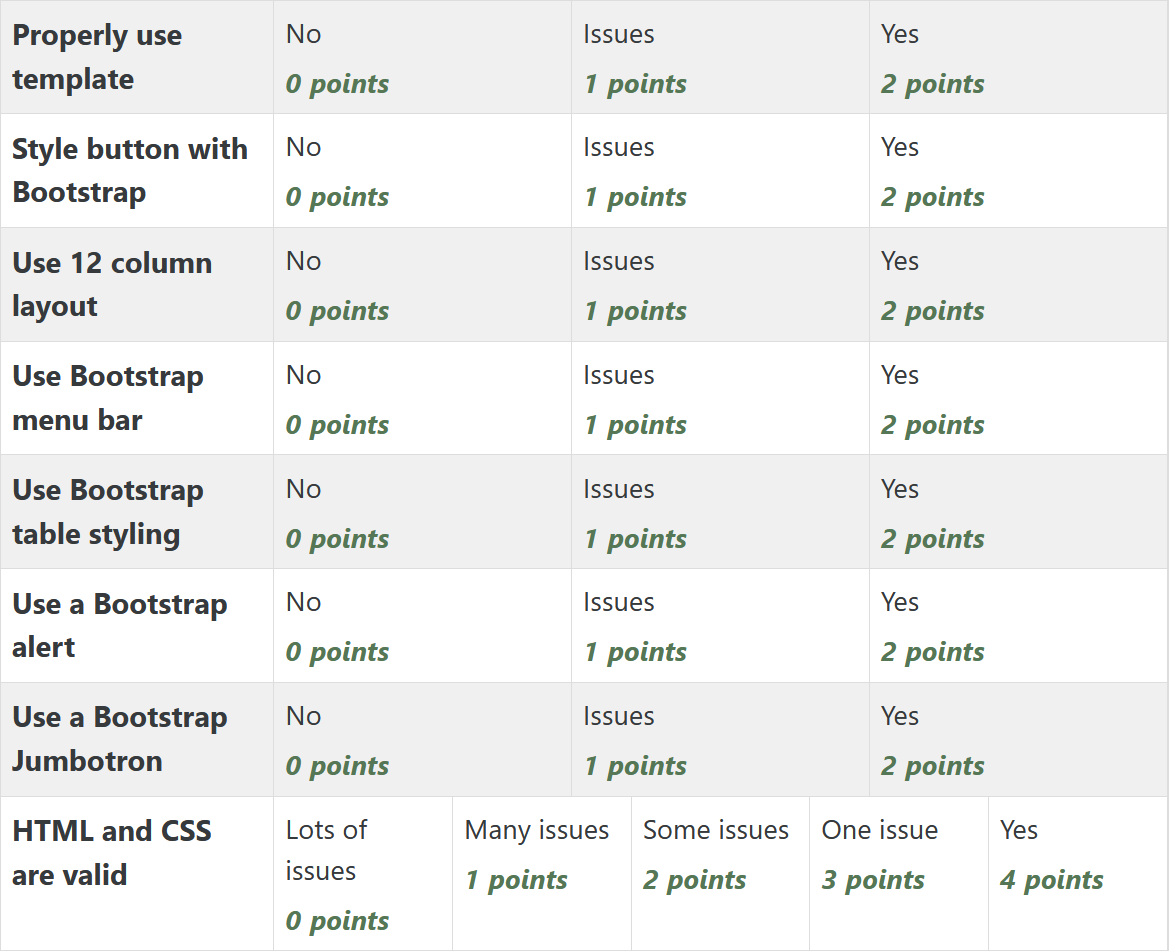
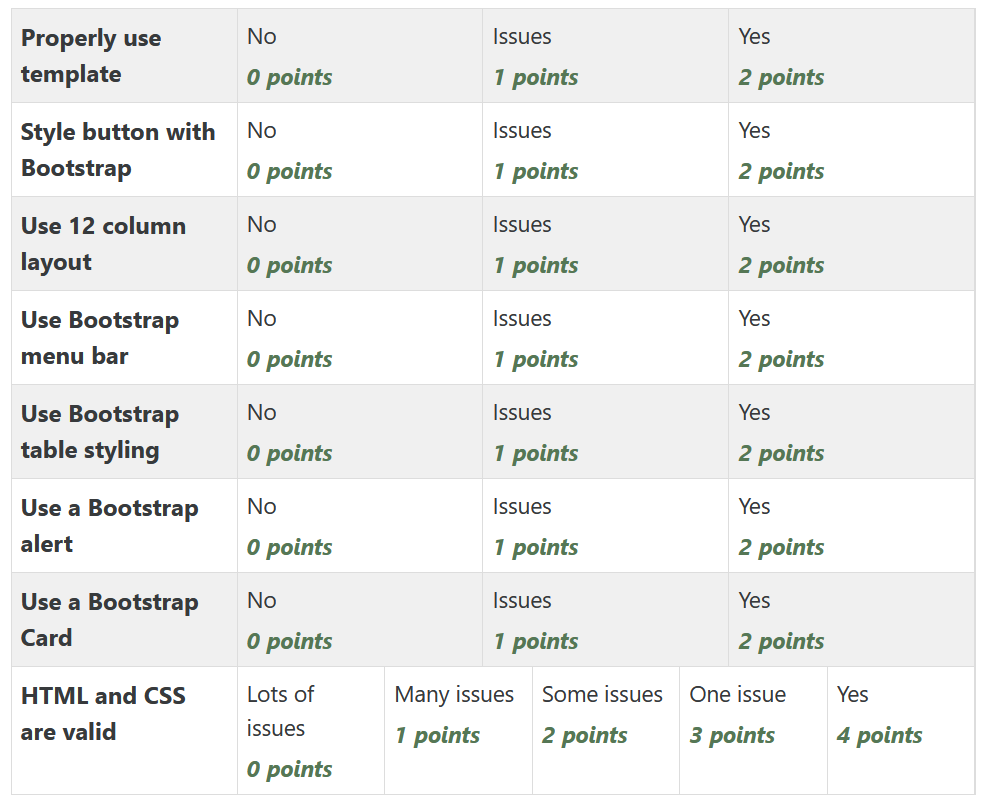
Update

diff --git a/source/semester_1/04_css/04_bootstrap/example_01.html b/source/semester_1/04_css/04_bootstrap/example_01.html
@@ -10,10 +10,15 @@
     <meta name="viewport" content="width=device-width, initial-scale=1">
 
     <!-- Bootstrap CSS -->
-    <link href="https://cdn.jsdelivr.net/npm/bootstrap@5.1.1/dist/css/bootstrap.min.css" rel="stylesheet" integrity="sha384-F3w7mX95PdgyTmZZMECAngseQB83DfGTowi0iMjiWaeVhAn4FJkqJByhZMI3AhiU" crossorigin="anonymous">
+    <link href="https://cdn.jsdelivr.net/npm/bootstrap@5.1.1/dist/css/bootstrap.min.css"
+          rel="stylesheet"
+          integrity="sha384-F3w7mX95PdgyTmZZMECAngseQB83DfGTowi0iMjiWaeVhAn4FJkqJByhZMI3AhiU"
+          crossorigin="anonymous">
 
     <!-- Optional theme add-on -->
-    <link rel="stylesheet" href="https://cdn.jsdelivr.net/npm/bootswatch@4.5.2/dist/darkly/bootstrap.min.css" integrity="sha384-nNK9n28pDUDDgIiIqZ/MiyO3F4/9vsMtReZK39klb/MtkZI3/LtjSjlmyVPS3KdN" crossorigin="anonymous">
+    <link rel="stylesheet"
+          href="https://cdn.jsdelivr.net/npm/bootswatch@4.5.2/dist/darkly/bootstrap.min.css" integrity="sha384-nNK9n28pDUDDgIiIqZ/MiyO3F4/9vsMtReZK39klb/MtkZI3/LtjSjlmyVPS3KdN"
+          crossorigin="anonymous">
 
     <!-- If you don't like how sandstone looks, go here and see other themes
          that are available:
@@ -23,7 +28,9 @@
          to get that theme:
          https://www.bootstrapcdn.com/bootswatch/
     -->
-
+    <link rel="stylesheet"
+          href="https://cdn.jsdelivr.net/npm/bootswatch@4.5.2/dist/flatly/bootstrap.min.css" integrity="sha384-qF/QmIAj5ZaYFAeQcrQ6bfVMAh4zZlrGwTPY7T/M+iTTLJqJBJjwwnsE5Y0mV7QK"
+          crossorigin="anonymous">
   </head>
 
   <body>

diff --git a/source/semester_1/04_css/04_bootstrap/bootstrap.rst b/source/semester_1/04_css/04_bootstrap/bootstrap.rst
@@ -44,20 +44,22 @@ For the first three, we need to modify our HTML head to include these tags:
           integrity="sha384-F3w7mX95PdgyTmZZMECAngseQB83DfGTowi0iMjiWaeVhAn4FJkqJByhZMI3AhiU"
           crossorigin="anonymous">
 
-    <!-- If you don't like the default theme, go here and see other themes
-         you can add on:
-         https://bootswatch.com/
-
-         You can replace the 'optional theme' below with the links you can find at:
-         https://www.bootstrapcdn.com/bootswatch/
-    -->
-
     <!-- Optional theme add-on -->
     <link rel="stylesheet"
-          href="https://cdn.jsdelivr.net/npm/bootswatch@4.5.2/dist/darkly/bootstrap.min.css"
-          integrity="sha384-nNK9n28pDUDDgIiIqZ/MiyO3F4/9vsMtReZK39klb/MtkZI3/LtjSjlmyVPS3KdN"
+          href="https://cdn.jsdelivr.net/npm/bootswatch@4.5.2/dist/darkly/bootstrap.min.css" integrity="sha384-nNK9n28pDUDDgIiIqZ/MiyO3F4/9vsMtReZK39klb/MtkZI3/LtjSjlmyVPS3KdN"
           crossorigin="anonymous">
 
+    <!-- If you don't like how sandstone looks, go here and see other themes
+         that are available:
+         https://bootswatch.com/
+
+         You can replace the 'optional theme' with links from the page below
+         to get that theme:
+         https://www.bootstrapcdn.com/bootswatch/
+    -->
+    <link rel="stylesheet"
+          href="https://cdn.jsdelivr.net/npm/bootswatch@4.5.2/dist/flatly/bootstrap.min.css" integrity="sha384-qF/QmIAj5ZaYFAeQcrQ6bfVMAh4zZlrGwTPY7T/M+iTTLJqJBJjwwnsE5Y0mV7QK"
+          crossorigin="anonymous">
   </head>
 
 For the last one, we need to add the following line just before the close of the body tag:
@@ -73,6 +75,9 @@ Where did I get this info? Bootstrap has great docs, and this is from the
 `getting started guide <https://getbootstrap.com/docs/5.1/getting-started/introduction/>`_.
 
 At this point, you might notice some slight changes to your document. Mainly font changes.
+
+You should also get introduced to the idea of using a CDN, what the "integrity" and "crossorigin" mean.
+Your instructor will explain.
 
 Bootstrap Menu
 ^^^^^^^^^^^^^^

diff --git a/source/semester_1/assignments/04_bootstrap/bootstrap.rst b/source/semester_1/assignments/04_bootstrap/bootstrap.rst
@@ -42,9 +42,8 @@ Assignment 4 - Bootstrap
   for examples on all the types of things you can do.
 * "`Use a Bootstrap alert <https://getbootstrap.com/docs/4.0/components/alerts/>`_"
   Put at least one Bootstrap alert somewhere on your page.
-* "`Use a Bootstrap Jumbotron <https://getbootstrap.com/docs/4.0/components/jumbotron/>`_"
-  Properly use a Jumbotron at least once. Don't make
-  the mistake of putting the whole page into the Jumbotron, just part of it.
+* "`Use a Bootstrap Card <https://getbootstrap.com/docs/5.1/components/card/>`_"
+  Properly use a card at least once.
 * "Use 12 column layout"
   Pick at least page, and make it into a responsive multi-column
   layout using Bootstrap. Don't simply make a container with just one column, it
